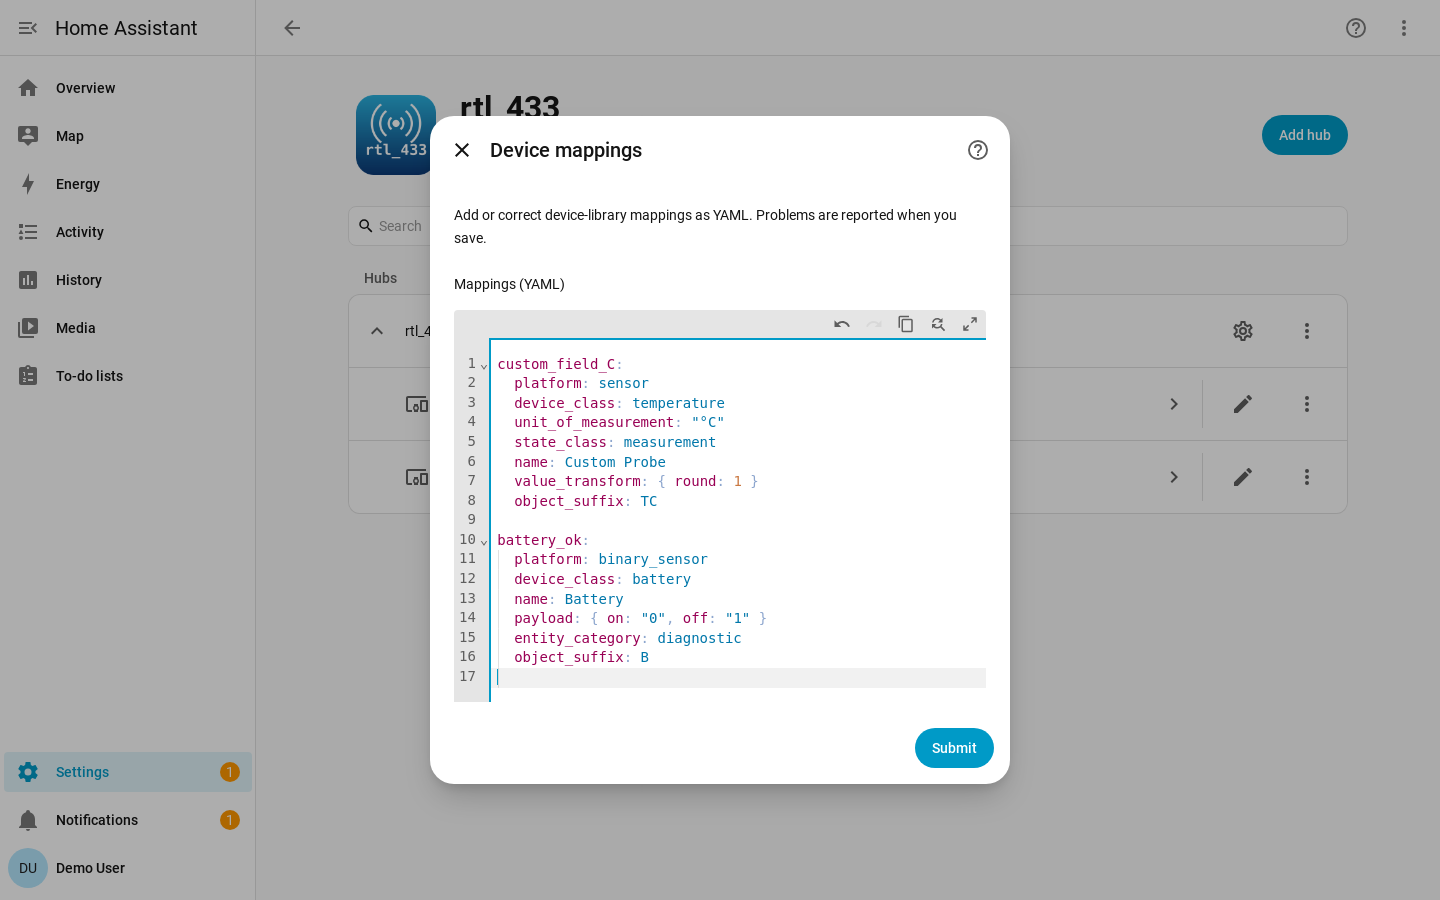
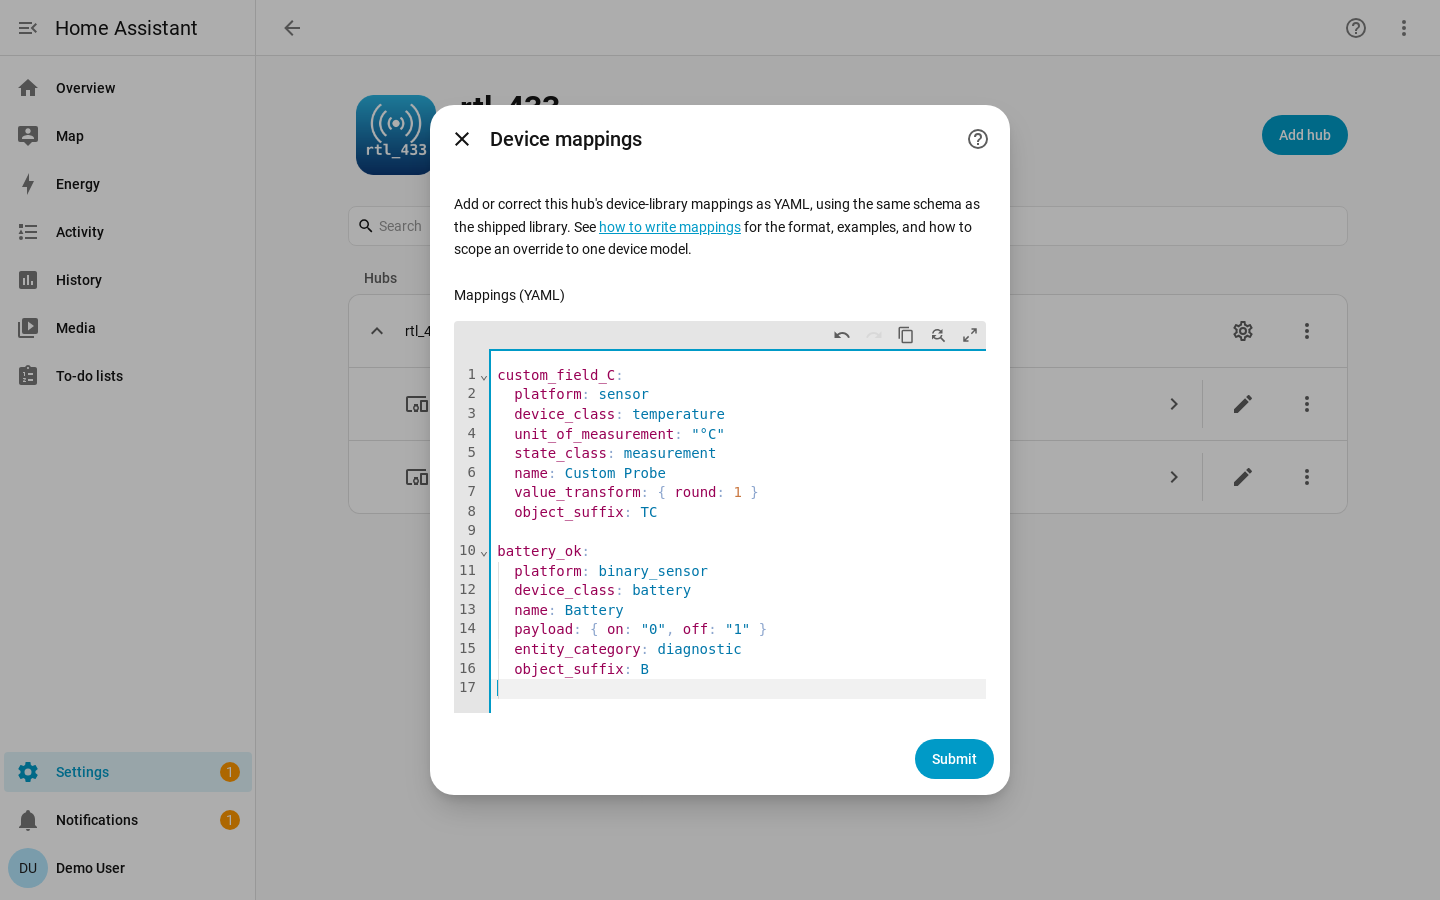
docs(rtl_433): link mapping editor to docs; document per-model overrides
The Device mappings step description no longer says "Problems are
reported when you save"; it now links to the README's
"Device library and user overrides" section for the mapping format and
examples (and refreshes the screenshot to match).

Also document how to override a mapping for one specific device model
(a `models:` block) in both the README overrides section and the
device-library "User overrides" guide, clarifying that mapping
overrides are global or model-scoped — per-instance settings stay in
the options-flow Device settings step.

diff --git a/docs/device-library.md b/docs/device-library.md
@@ -462,8 +462,32 @@ battery_ok:
   object_suffix: B
 ```
 
-Model-scoped overrides (a [`models:` block](#model-scoped-mappings-models)) and
-`skip_keys:` entries work in the editor exactly as in the shipped library.
+`skip_keys:` entries work in the editor exactly as in the shipped library, and so
+do model-scoped overrides — the way to correct a mapping for **one specific
+device model** rather than every device that emits the field. Nest the per-model
+descriptors under a [`models:` block](#model-scoped-mappings-models) keyed by the
+exact rtl_433 `model` string; a model-scoped entry beats any global one for that
+model (see [precedence](#precedence-specificity-first)). For example, to rename
+one model's temperature sensor and round it more finely than the global default,
+leaving every other model untouched:
+
+```yaml
+models:
+  Acurite-Tower: # exact rtl_433 model string
+    temperature_C:
+      platform: sensor
+      device_class: temperature
+      unit_of_measurement: "°C"
+      state_class: measurement
+      name: Outdoor temperature
+      value_transform: { round: 2 }
+      object_suffix: T
+```
+
+Mapping overrides are **global or model-scoped only** — they apply to every device
+of a model, not a single physical unit. To change settings for one specific unit
+(its availability timeout, meter calibration, or motion clear delay), use the
+options flow's *Device settings* step instead.
 
 ### Migrating an existing `rtl_433_mappings.yaml`
 

diff --git a/README.md b/README.md
@@ -315,6 +315,30 @@ top-level keys are rtl_433 field names, values are entry mappings, and they may
 include a `skip_keys:` list. Overrides win over shipped entries (full
 replacement), new fields are added, and `skip_keys` are unioned.
 
+**Overriding one device model.** A top-level key changes a field for *every*
+device that emits it. To correct a mapping for a single model without touching
+others, nest it under a `models:` block keyed by the exact rtl_433 `model`
+string — a model-scoped entry always wins over a global one for that model:
+
+```yaml
+models:
+  Acurite-Tower: # exact rtl_433 model string
+    temperature_C:
+      platform: sensor
+      device_class: temperature
+      unit_of_measurement: "°C"
+      state_class: measurement
+      name: Outdoor temperature # rename just this model's sensor
+      value_transform: { round: 2 }
+      object_suffix: T
+```
+
+Mapping overrides are **global or model-scoped** — they apply to all devices of a
+model, never a single physical unit. Per-*instance* settings (availability
+timeout, meter calibration, motion clear delay) live in **Device settings**
+instead. See [model-scoped mappings](docs/device-library.md#model-scoped-mappings-models)
+for the resolution order and a worked example.
+
 Overrides are stored **per hub** — each hub has its own set. The editor blocks
 invalid YAML and **validates the mapping schema on save**, rejecting bad input
 with a per-field error rather than silently dropping it; on save the hub